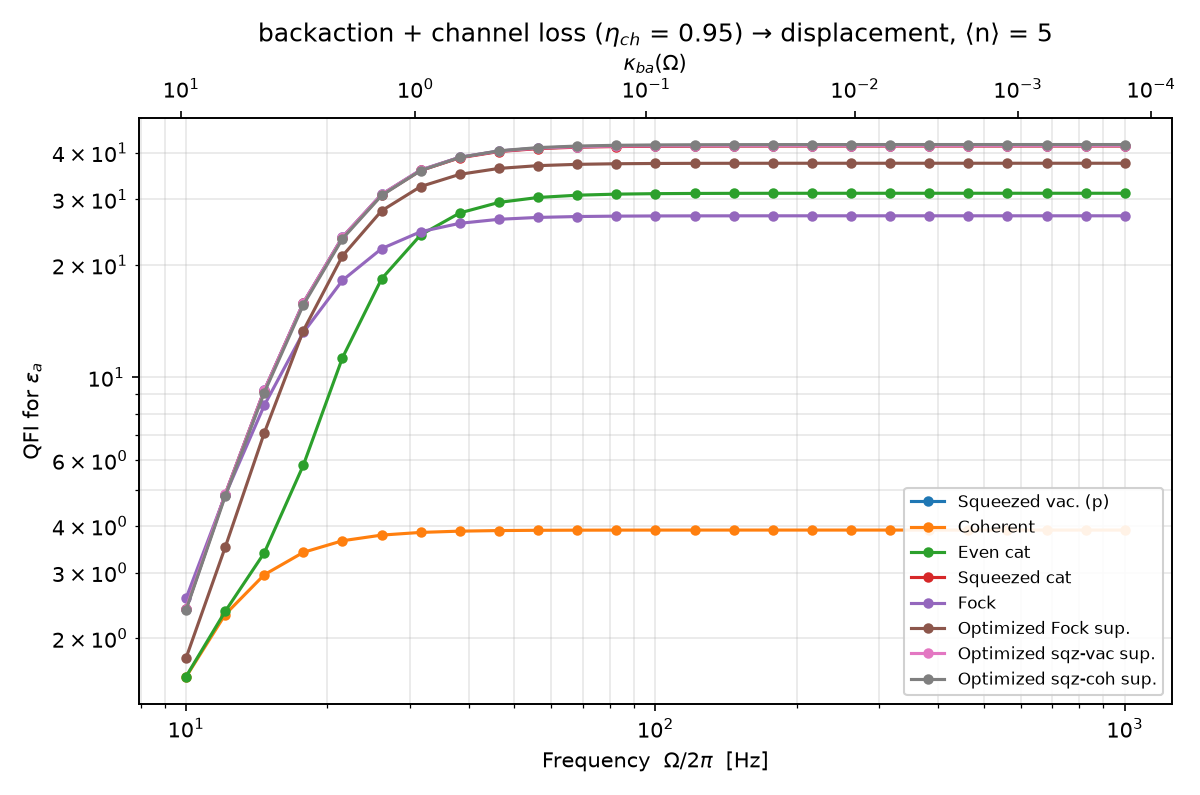
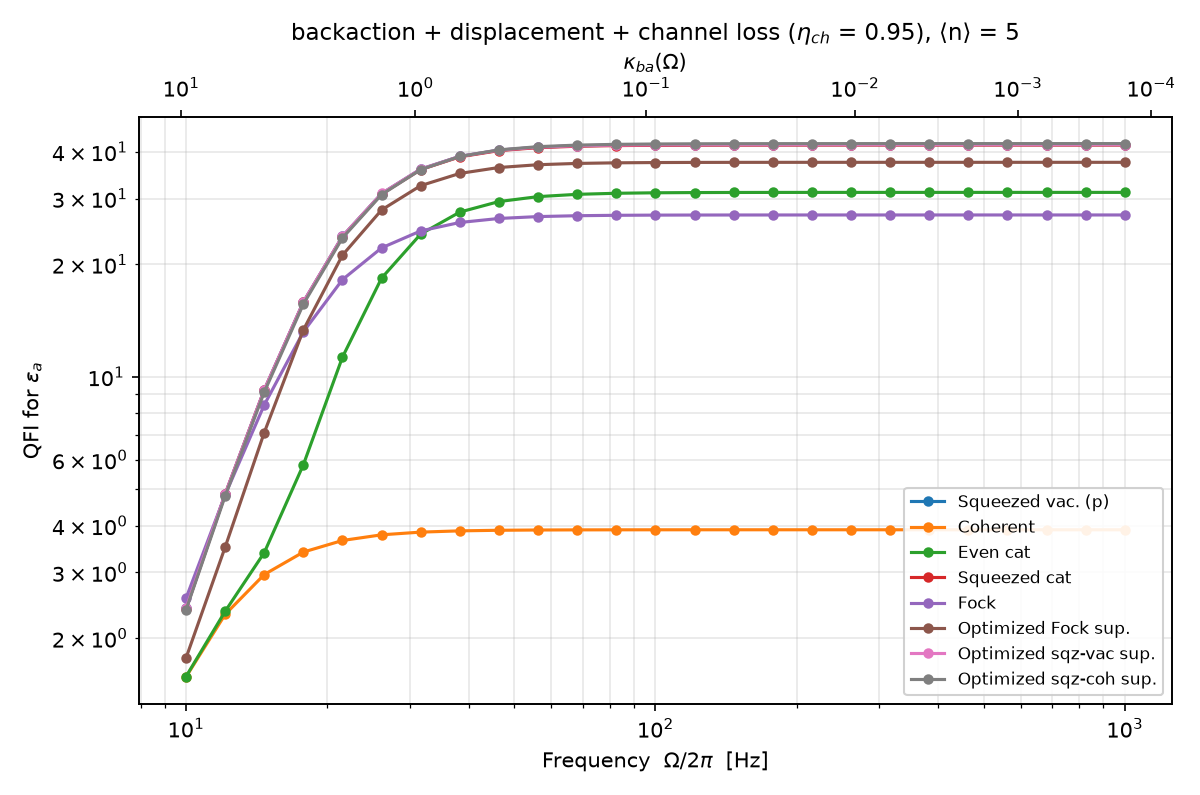
Figure titles: back-action and displacement are simultaneous ("backaction + displacement")
Claude-Session: https://claude.ai/code/session_01V4EL5HdYFnadCUR7wuMVab

diff --git a/studies/channel_loss.py b/studies/channel_loss.py
@@ -174,7 +174,7 @@ def figure(df, eta, path):
     ax.set_xlabel(r"Frequency  $\Omega/2\pi$  [Hz]"); ax.set_ylabel(r"QFI for $\varepsilon_a$")
     pn = d_eta.pn_in.iloc[0] if "pn_in" in d_eta else 0.0
     head = f"phase noise ({1000 * pn:.0f} mrad) → " if pn > 0 else ""
-    ax.set_title(head + f"backaction + channel loss ($\\eta_{{ch}}$ = {eta:g}) → displacement, ⟨n⟩ = 5", fontsize=11)
+    ax.set_title(head + f"backaction + displacement + channel loss ($\\eta_{{ch}}$ = {eta:g}), ⟨n⟩ = 5", fontsize=11)
     ax.grid(True, which="both", alpha=0.3)
     _kappa_axis(ax)
     ax.legend(loc="lower right", fontsize=8)

diff --git a/studies/input_loss.py b/studies/input_loss.py
@@ -173,7 +173,7 @@ def figure(df, eta, path):
             ax.plot(bad.freq_hz, bad.qfi_fock, "o", mfc="white", color=line.get_color())
     ax.set_xscale("log"); ax.set_yscale("log")
     ax.set_xlabel(r"Frequency  $\Omega/2\pi$  [Hz]"); ax.set_ylabel(r"QFI for $\varepsilon_a$")
-    ax.set_title(f"input loss ($\\eta_{{in}}$ = {eta:g}) → backaction → displacement, ⟨n⟩ = 5")
+    ax.set_title(f"input loss ($\\eta_{{in}}$ = {eta:g}) → backaction + displacement, ⟨n⟩ = 5")
     ax.grid(True, which="both", alpha=0.3)
     _kappa_axis(ax)
     ax.legend(loc="lower right", fontsize=8)

diff --git a/studies/backaction_only.py b/studies/backaction_only.py
@@ -121,7 +121,7 @@ LEGEND = {
     "opt_sqz_vac": "Optimized sqz-vac sup. (no-BA, lossless)",
     "opt_sqz_coh": "Optimized sqz-coh sup. (no-BA, lossless)",
 }
-TITLE_CHANNEL = "backaction → displacement, ⟨n⟩ = 5"
+TITLE_CHANNEL = "backaction + displacement, ⟨n⟩ = 5"
 
 
 def _kappa_axis(ax):
